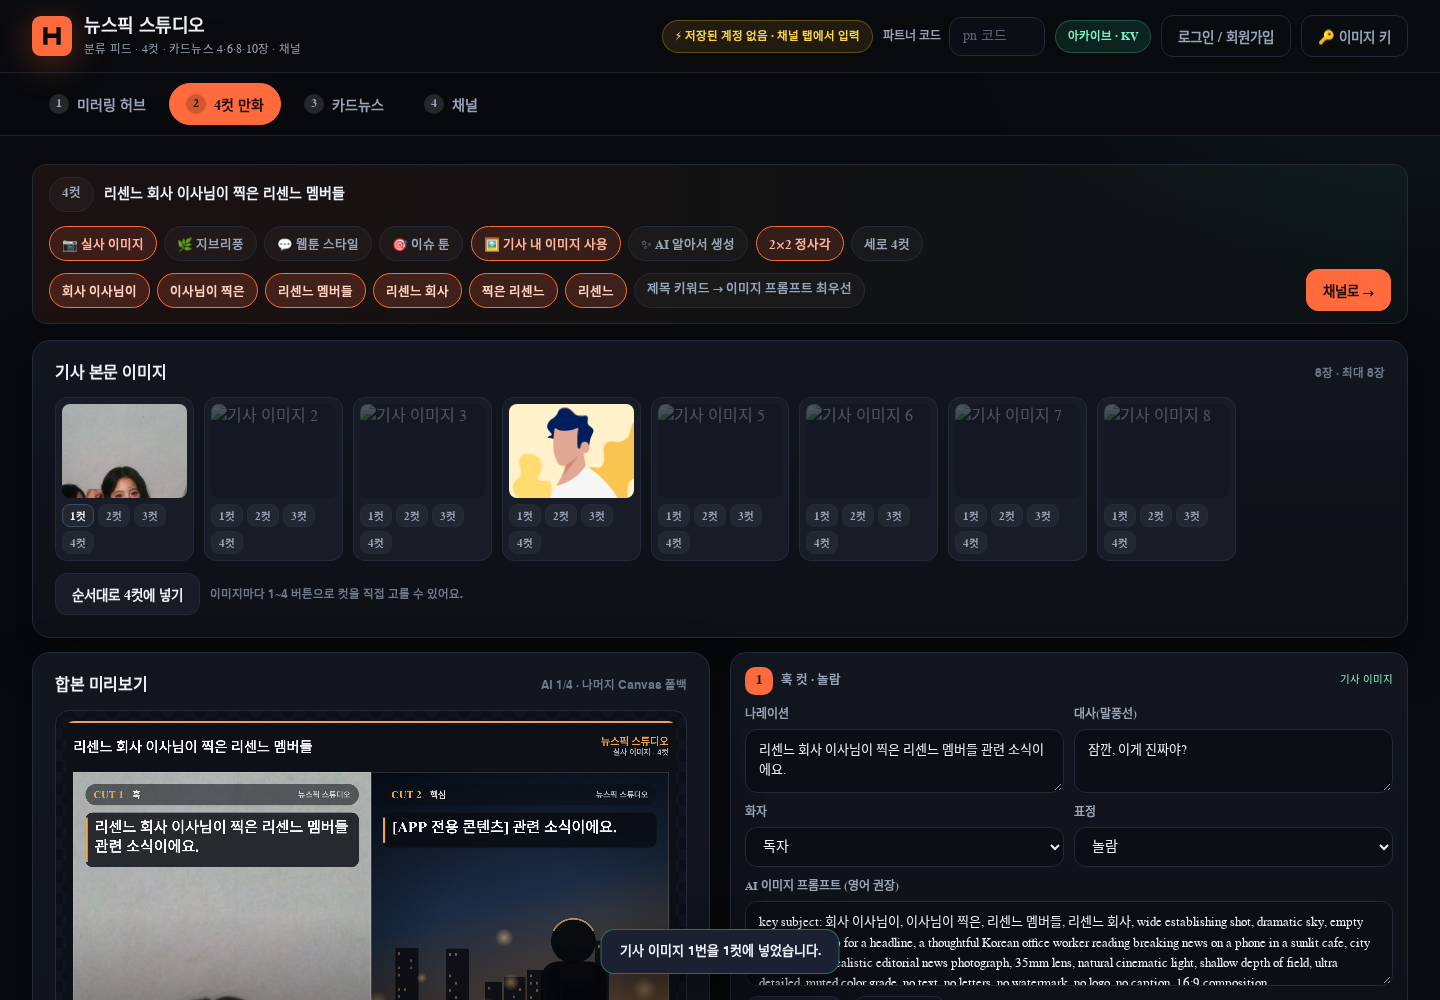
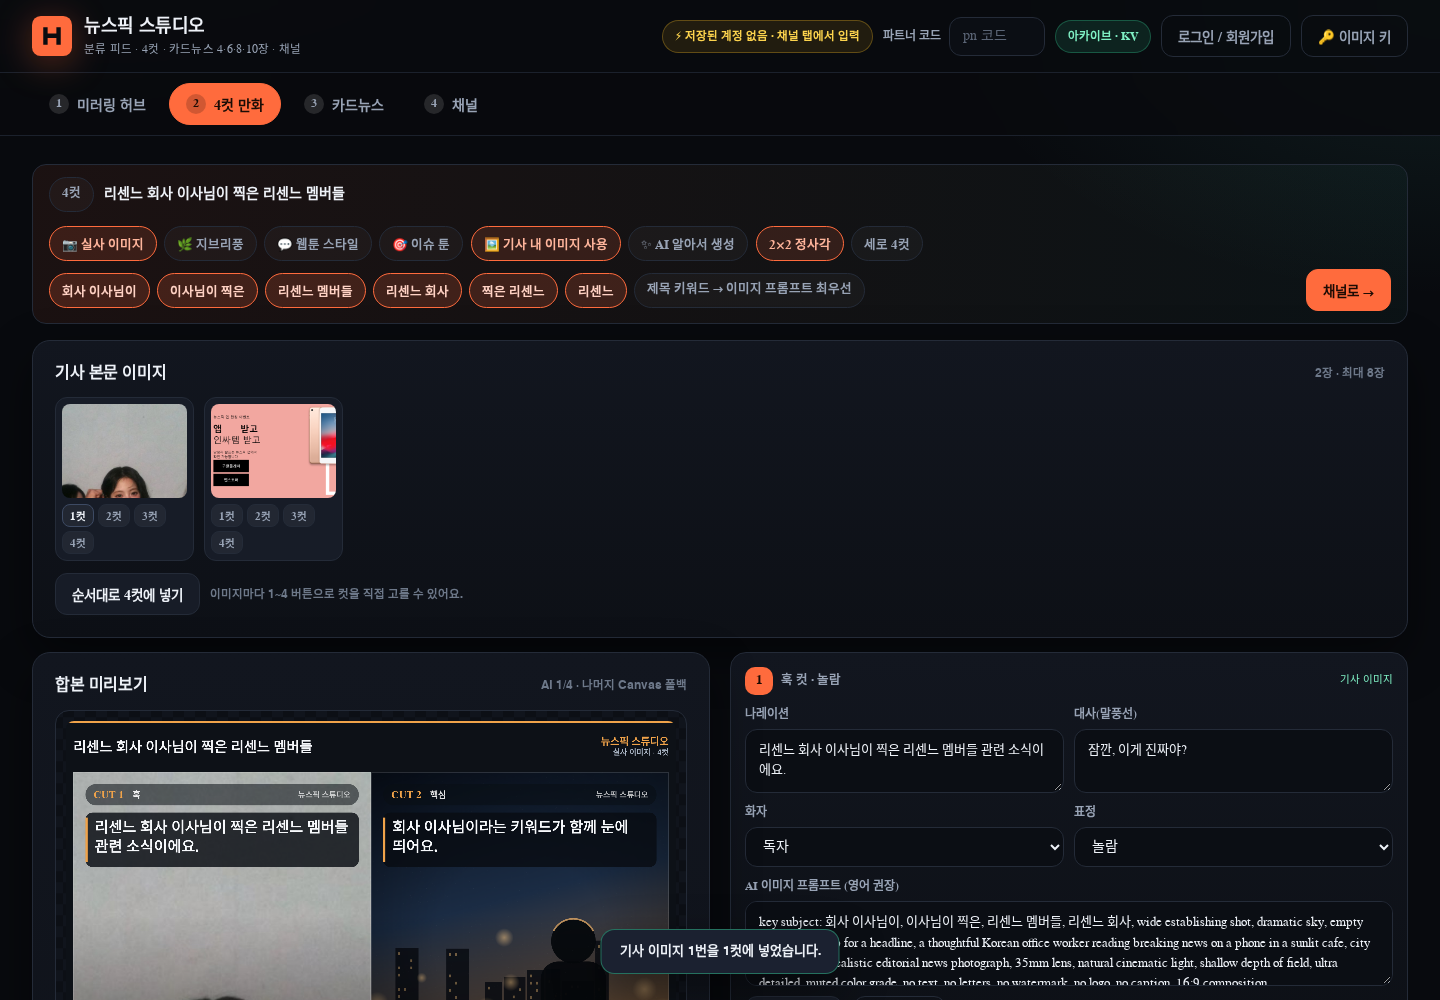
파트너스 기사 본문 이미지 추출 보강: 문서 전체 이미지 후보 병합, 프로모션·추적 픽셀 제외

diff --git a/functions/api/_lib.js b/functions/api/_lib.js
@@ -629,7 +629,7 @@ export function absoluteUrl(src, base) {
 }
 
 /** 본문 안의 <img> 주소를 모은다. (4컷 배경 후보 — 최대 limit 장) */
-const IMAGE_SKIP = /(?:logo|icon|blank|spacer|btn_|button|sprite|pixel|ad_|banner|profile)/i;
+const IMAGE_SKIP = /(?:logo|icon|blank|spacer|btn_|button|sprite|pixel|ad_|banner|profile|promotion)/i;
 
 export function extractInlineImages(bodyHtml, base, limit = 8) {
   const out = [];
@@ -644,6 +644,7 @@ export function extractInlineImages(bodyHtml, base, limit = 8) {
     if (/\.(gif|svg)(\?|$)/i.test(url)) continue;
     if (IMAGE_SKIP.test(url)) continue;
     if (/\{\{|%7B%7B|image_profile|noimg|default_|placeholder/i.test(url)) continue;
+    if (/facebook\.com\/tr|google-analytics|doubleclick|googletagmanager/i.test(url)) continue;
     if (out.includes(url)) continue;
     out.push(url);
     if (out.length >= limit) break;

diff --git a/functions/api/mirror.js b/functions/api/mirror.js
@@ -282,7 +282,8 @@ async function handleUrl(payload, kv, tracking) {
   ]);
   const bodyHtml = extractBodyHtml(html);
   const paragraphs = htmlToParagraphs(bodyHtml);
-  const inlineImages = extractInlineImages(bodyHtml, finalUrl, 8);
+  /* 본문 블록을 잘못 고르는 페이지(프로모션 게이트웨이 등)를 대비해 문서 전체에서도 한 번 더 모은다. */
+  const inlineImages = [...extractInlineImages(bodyHtml, finalUrl, 8), ...extractInlineImages(html, finalUrl, 8)].filter(Boolean);
   const site = detectSite(html, finalUrl);
   const author = extractAuthor(html);
   const cleanTitle = cleanArticleTitle(title, site);
